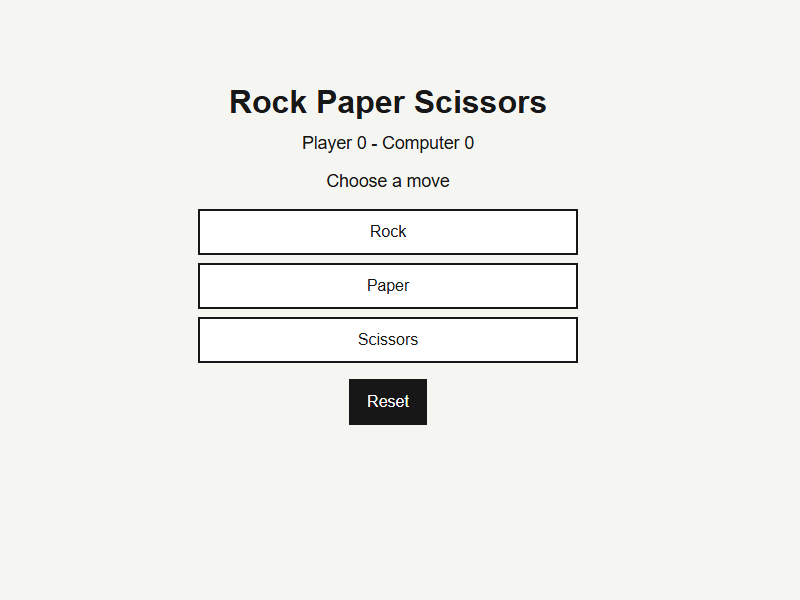
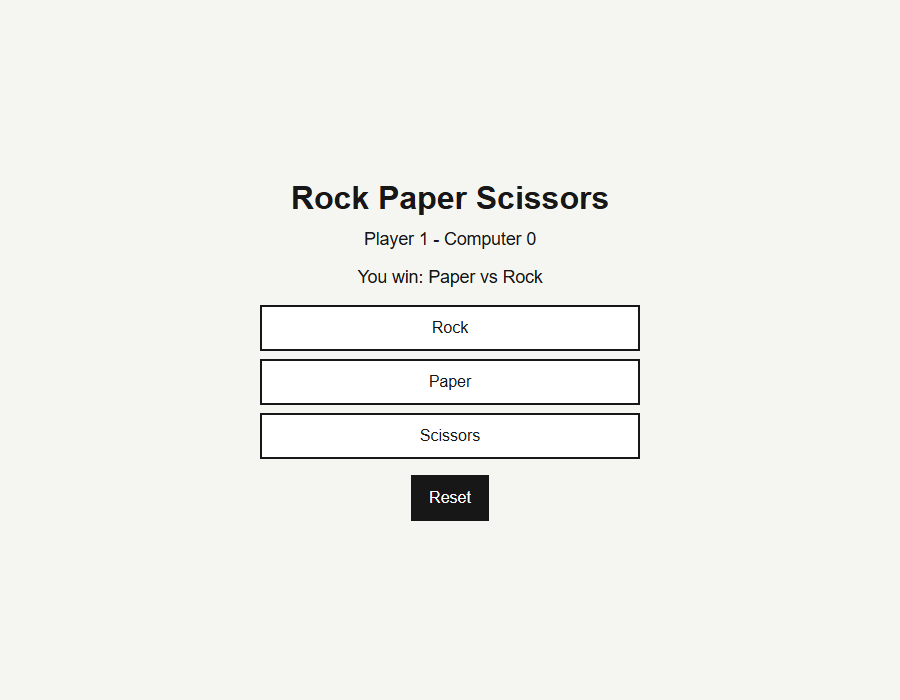
Update Korean README and gameplay screenshot

Changed region(s): [[0.25, 0.15, 0.7188, 0.75]]

diff --git a/daily/2026-04-27-rock-paper-scissors/game-logic.test.js b/daily/2026-04-27-rock-paper-scissors/game-logic.test.js
@@ -47,9 +47,18 @@ test('adds one computer point when computer choice beats player choice', () => {
   assert.deepEqual(game.score, { player: 0, computer: 1 });
 });
 
+test('keeps score across rounds', () => {
+  const firstRound = playRound(createGame(), 'paper', () => 'rock');
+  const secondRound = playRound(firstRound, 'scissors', () => 'rock');
+
+  assert.equal(secondRound.result, 'lose');
+  assert.deepEqual(secondRound.score, { player: 1, computer: 1 });
+});
+
 test('rejects moves outside the choice set', () => {
   const game = createGame();
 
   assert.deepEqual(playRound(game, 'lizard', () => 'rock'), game);
+  assert.deepEqual(playRound(game, 'rock', () => 'lizard'), game);
   assert.deepEqual(CHOICES, ['rock', 'paper', 'scissors']);
 });

diff --git a/README.md b/README.md
@@ -1,18 +1,24 @@
-# Daily Classic Games
+# 데일리 클래식 게임
 
-Small classic browser games collected by date. Each game stays intentionally simple: static HTML, CSS, and JavaScript with no new dependencies.
+날짜별로 작은 클래식 브라우저 게임을 모아두는 저장소입니다. 각 게임은 새 의존성 없이 정적 HTML, CSS, JavaScript만 사용합니다.
 
-## Games
+## 게임 목록
 
-| Date | Game | Description | Open |
+| 날짜 | 게임 | 설명 | 열기 |
 | --- | --- | --- | --- |
-| 2026-04-24 | Tic Tac Toe | 3x3 board game for two alternating marks. | `daily/2026-04-24-tic-tac-toe/index.html` |
-| 2026-04-27 | Memory Match | Flip cards and match every hidden pair. | `daily/2026-04-27-memory-match/index.html` |
-| 2026-04-27 | Rock Paper Scissors | Pick one move and score rounds against the computer. | `daily/2026-04-27-rock-paper-scissors/index.html` |
+| 2026-04-24 | 틱택토 | 두 플레이어가 번갈아 3x3 칸에 표시를 놓는 게임입니다. | [열기](daily/2026-04-24-tic-tac-toe/index.html) |
+| 2026-04-27 | 메모리 매치 | 카드를 뒤집어 같은 짝을 모두 찾는 게임입니다. | [열기](daily/2026-04-27-memory-match/index.html) |
+| 2026-04-27 | 가위바위보 | 하나의 수를 골라 컴퓨터와 라운드 점수를 겨루는 게임입니다. | [열기](daily/2026-04-27-rock-paper-scissors/index.html) |
 
-## Tests
+## 게임 화면
 
-The logic tests use only Node.js built-in modules.
+가위바위보를 실제로 한 판 진행한 화면입니다.
+
+![가위바위보 게임 화면](daily/2026-04-27-rock-paper-scissors/screenshot.png)
+
+## 테스트
+
+로직 테스트는 Node.js 내장 모듈만 사용합니다.
 
 ```bash
 node daily/2026-04-24-tic-tac-toe/game-logic.test.js
